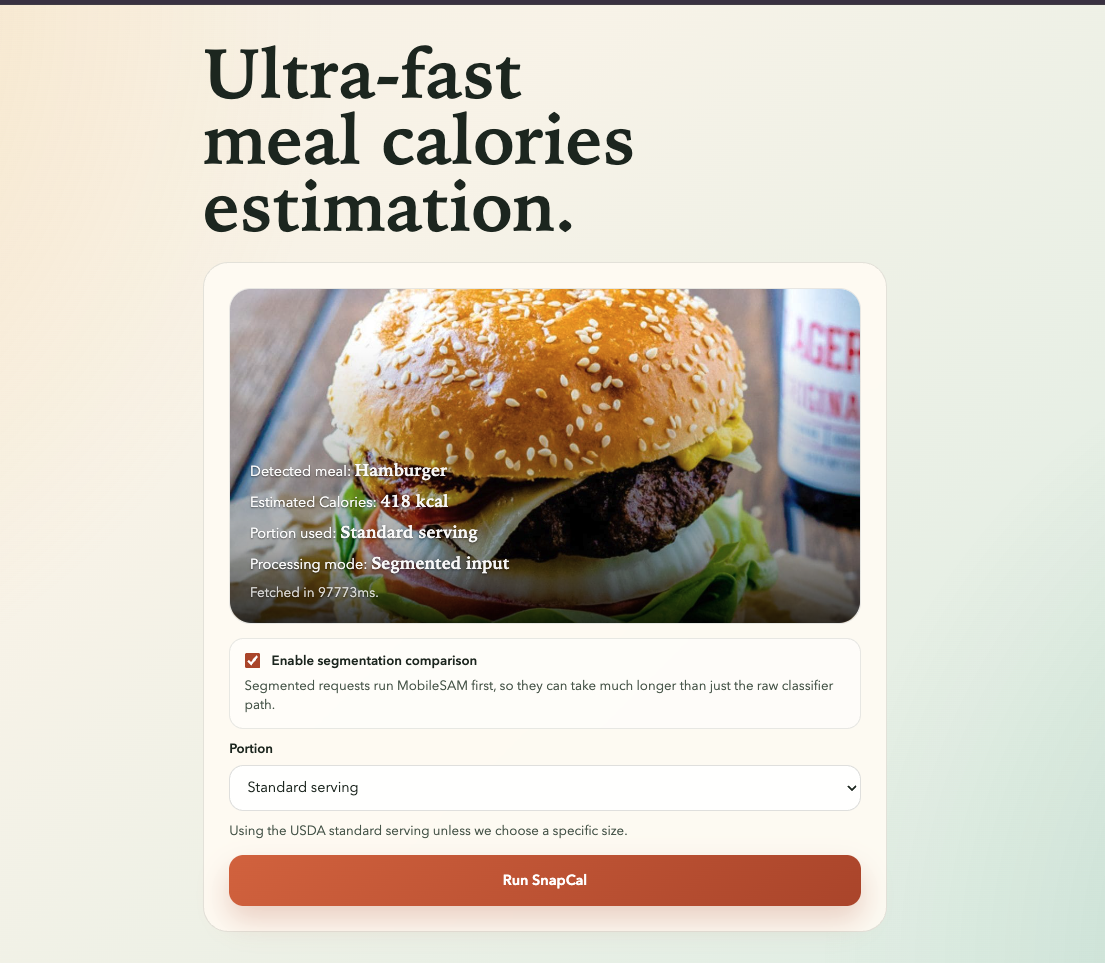
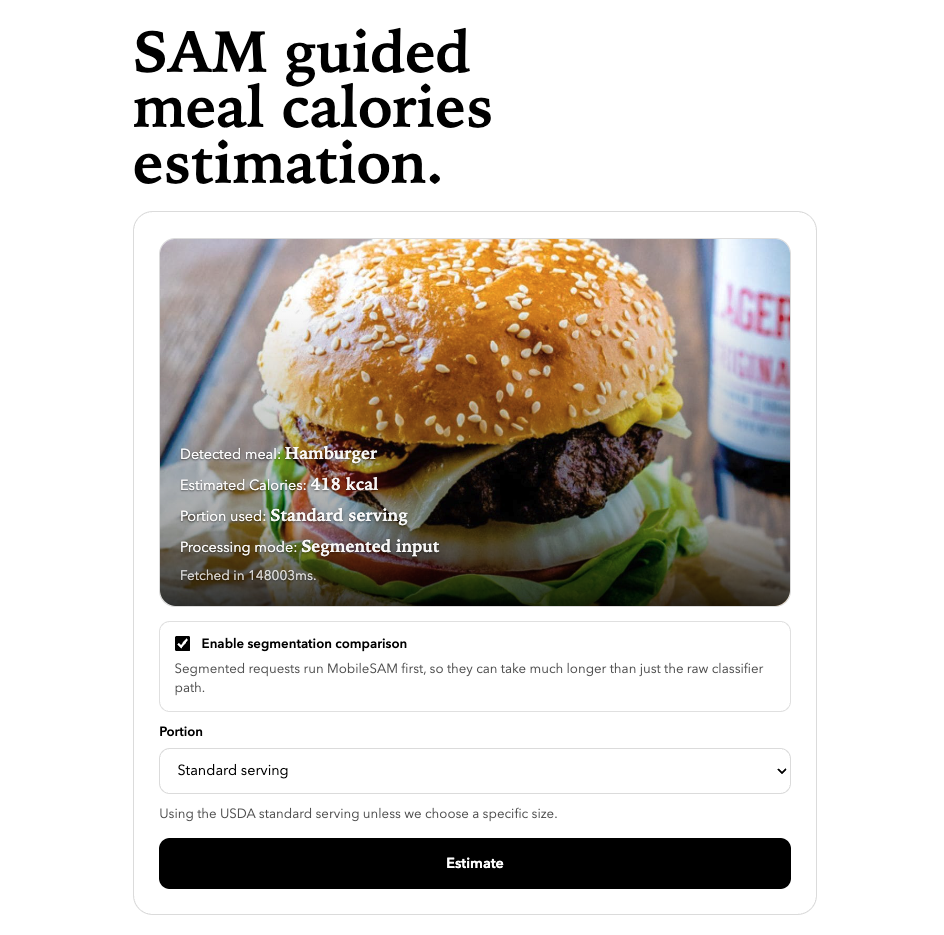
Update report

diff --git a/apps/web/components/snapcal-console.tsx b/apps/web/components/snapcal-console.tsx
@@ -1,7 +1,7 @@
 "use client";
 
 import Image from "next/image";
-import Skeleton from "react-loading-skeleton";
+import { TailSpin } from "react-loader-spinner";
 import { ChangeEvent, FormEvent, useEffect, useRef, useState } from "react";
 
 type PortionUnit = "serving" | "oz" | "fl_oz";
@@ -422,12 +422,13 @@ export function SnapCalConsole() {
             aria-label={isSubmitting ? "Analysing..." : undefined}
           >
             {isSubmitting ? (
-              <span aria-hidden="true" style={{ display: "inline-block", width: "min(10rem, 58%)", lineHeight: 0 }}>
-                <Skeleton
-                  height={12}
-                  borderRadius={999}
-                  baseColor="rgba(255, 255, 255, 0.22)"
-                  highlightColor="rgba(255, 255, 255, 0.55)"
+              <span aria-hidden="true">
+                <TailSpin
+                  height={20}
+                  width={20}
+                  color="#ffffff"
+                  ariaLabel="snapcal-loading"
+                  visible
                 />
               </span>
             ) : (

diff --git a/apps/web/app/layout.tsx b/apps/web/app/layout.tsx
@@ -1,6 +1,5 @@
 import type { Metadata } from "next";
 import type { ReactNode } from "react";
-import "react-loading-skeleton/dist/skeleton.css";
 import "./globals.css";
 
 export const metadata: Metadata = {

diff --git a/apps/web/app/globals.css b/apps/web/app/globals.css
@@ -249,6 +249,9 @@ select {
 
 .button {
   border: none;
+  display: flex;
+  align-items: center;
+  justify-content: center;
   cursor: pointer;
   min-height: 56px;
   background: var(--accent);
